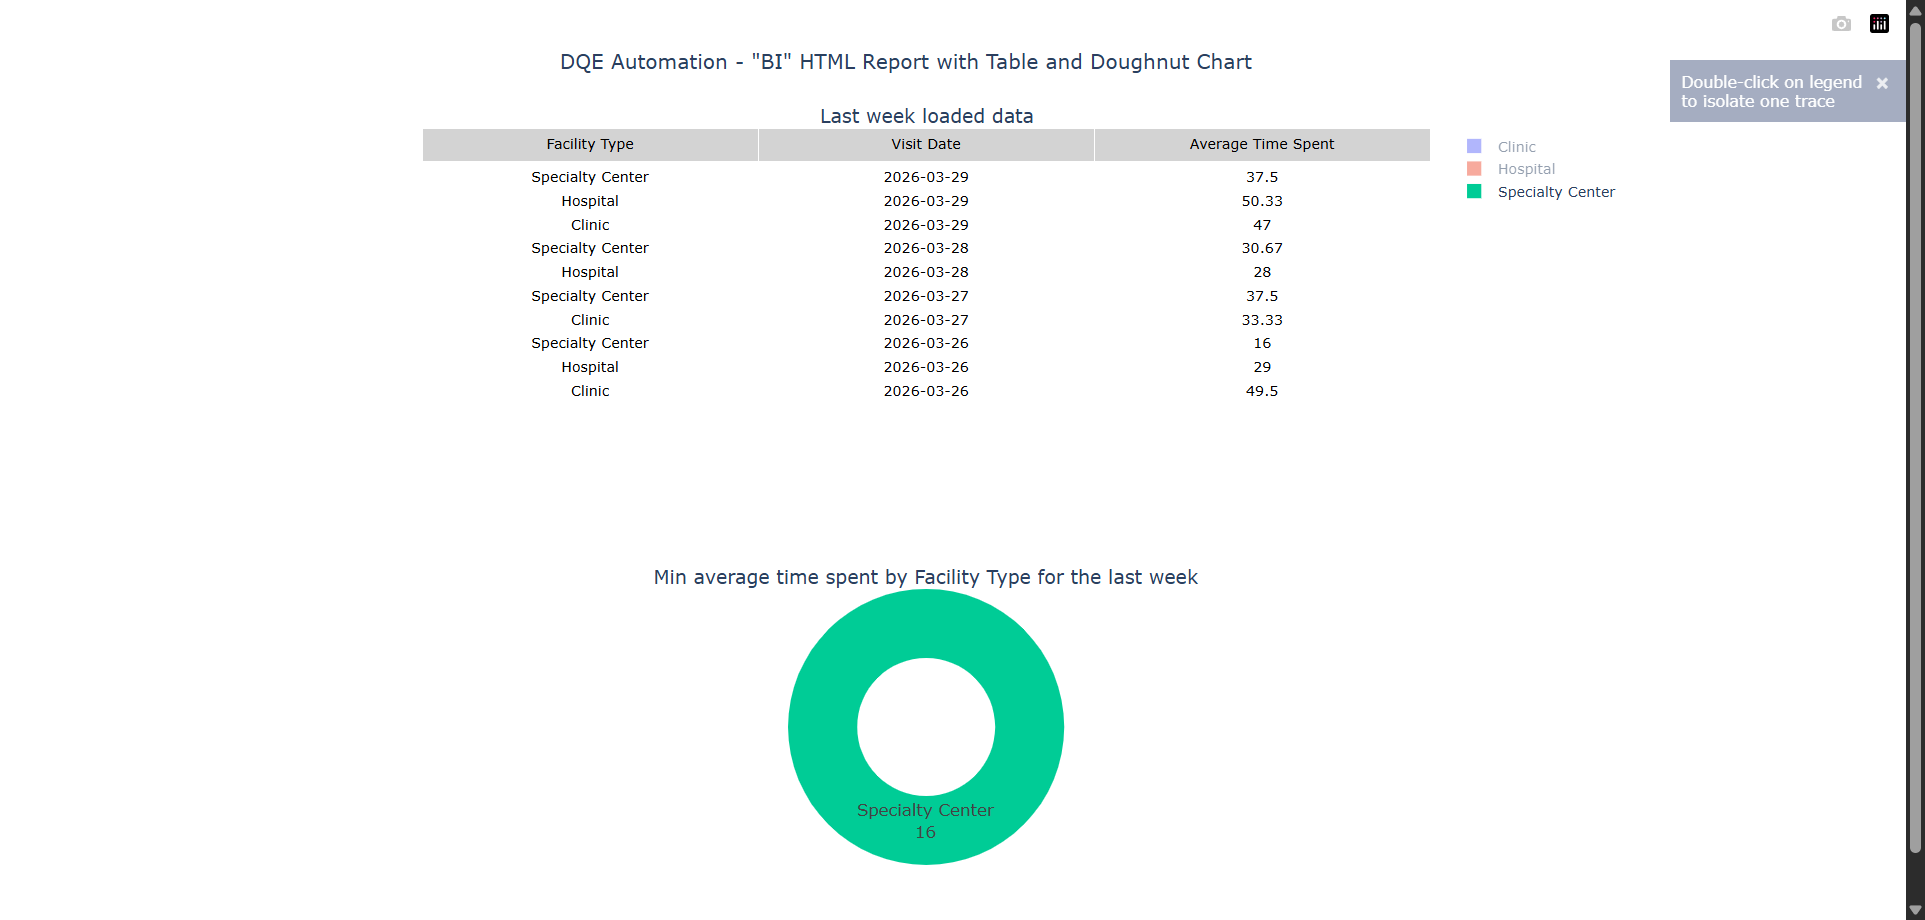
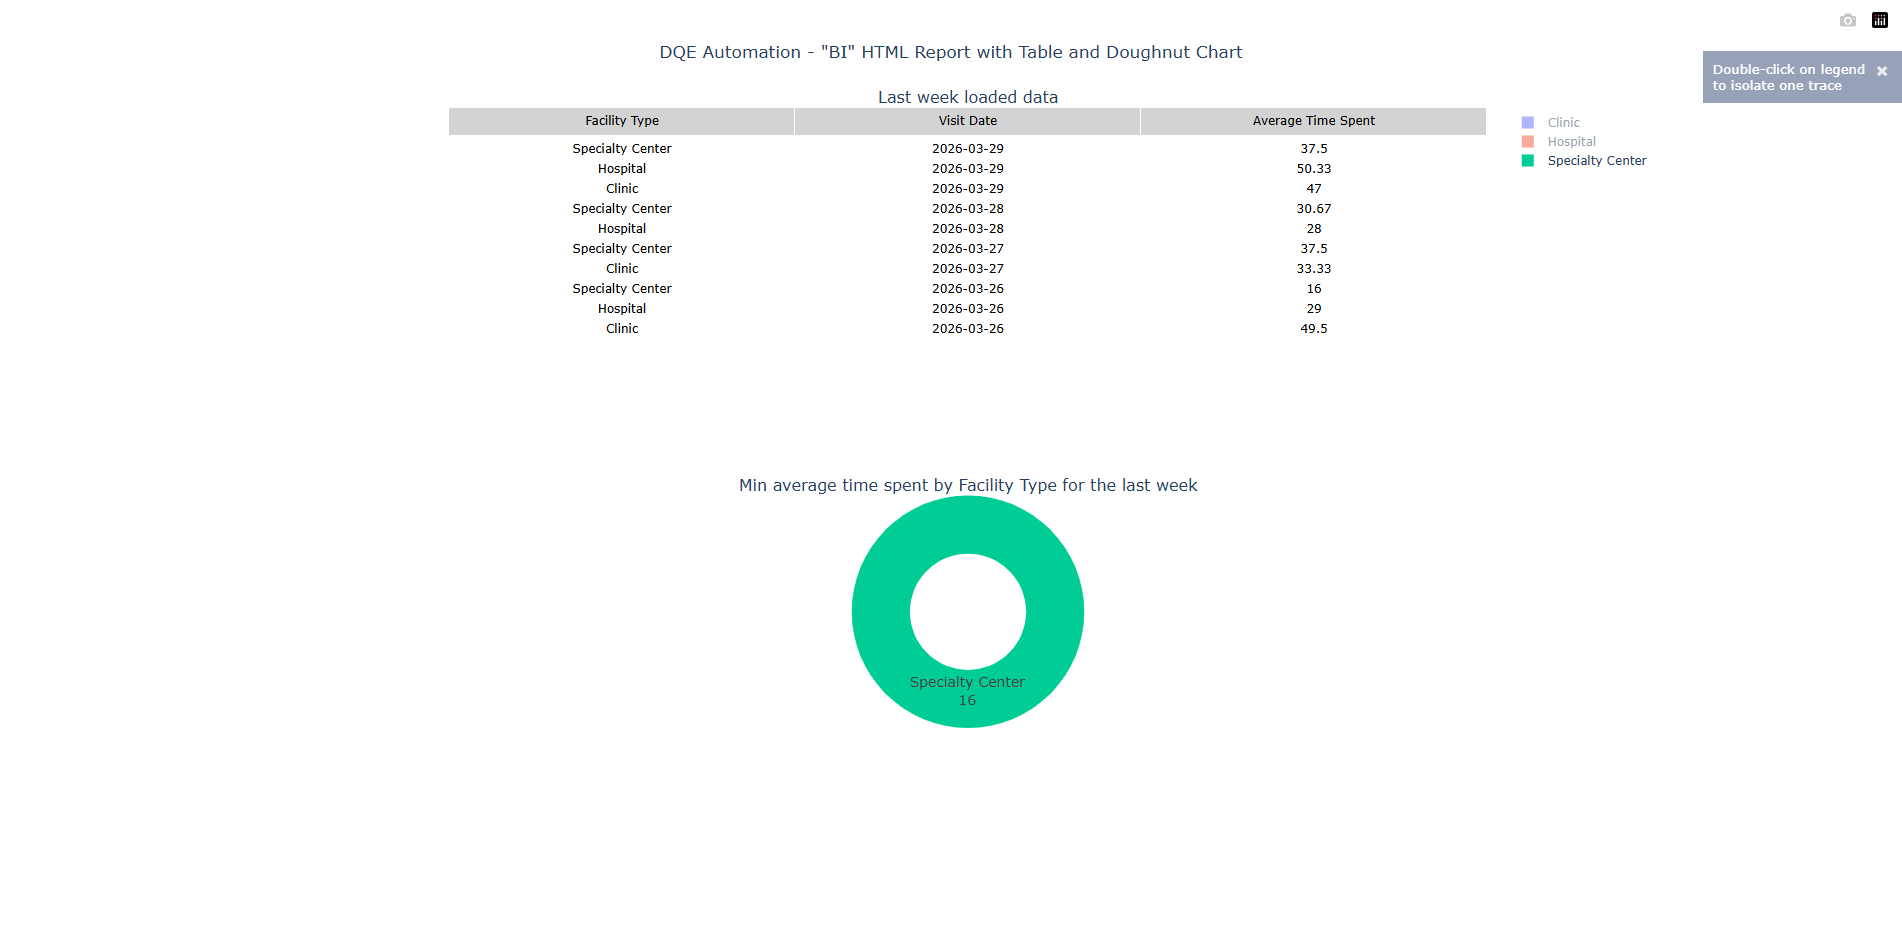
Final optimized Selenium automation - headless mode with cleaned code

diff --git a/Selenium Introduction/main.py b/Selenium Introduction/main.py
@@ -1,12 +1,12 @@
 import time
-import os
 import pandas as pd
 from selenium import webdriver
 from selenium.webdriver.chrome.webdriver import WebDriver
 from selenium.webdriver.common.by import By
+from selenium.webdriver.common.action_chains import ActionChains
 from selenium.webdriver.support.ui import WebDriverWait
 from selenium.webdriver.support import expected_conditions as EC
-from selenium.common.exceptions import TimeoutException, NoSuchElementException
+from selenium.common.exceptions import TimeoutException
 from pathlib import Path
 
 
@@ -21,14 +21,11 @@ class SeleniumWebDriverContextManager:
         if self.headless:
             options.add_argument('--headless')
         
-        # Start with large initial size
-        options.add_argument('--window-size=1920,4000')
+        options.add_argument('--window-size=1920,1080')
         options.add_argument('--disable-blink-features=AutomationControlled')
         
         self.driver = webdriver.Chrome(options=options)
-        
-        # Set window size to 4000px height
-        self.driver.set_window_size(1920, 4000)
+        self.driver.set_window_size(1920, 1080)
         
         return self.driver
     
@@ -36,7 +33,6 @@ class SeleniumWebDriverContextManager:
         """Clean up WebDriver"""
         if self.driver:
             self.driver.quit()
-        
         return False
 
 
@@ -58,48 +54,29 @@ def extract_table_to_csv(driver: WebDriver, output_file="table.csv"):
         header_elements = table_container.find_elements(By.CSS_SELECTOR, "g#header text.cell-text")
         headers = [h.text.strip() for h in header_elements if h.text.strip()]
         
-        print(f"   Found headers: {headers}")
-        
-        # Locator 3: Find ALL text elements with class 'cell-text'
+        # Locator 3: By CSS_SELECTOR - get all data cells
         all_texts = table_container.find_elements(By.CSS_SELECTOR, "text.cell-text")
         
-        # Extract text, skipping headers
-        all_data = []
-        for text_elem in all_texts:
-            text = text_elem.text.strip()
-            if text and text not in headers:
-                all_data.append(text)
+        # Extract data, skipping headers
+        all_data = [text.text.strip() for text in all_texts 
+                    if text.text.strip() and text.text.strip() not in headers]
         
-        print(f"   Total cell-text elements found: {len(all_texts)}")
-        print(f"   Data cells (excluding headers): {len(all_data)}")
-        
-        # Organize into rows (3 columns)
+        # Organize into rows
         num_columns = len(headers)
-        rows = []
-        
-        if num_columns > 0:
-            for i in range(0, len(all_data), num_columns):
-                row = all_data[i:i + num_columns]
-                if len(row) == num_columns:
-                    rows.append(row)
-        
-        print(f"   Organized into {len(rows)} rows")
+        rows = [all_data[i:i + num_columns] for i in range(0, len(all_data), num_columns)
+                if len(all_data[i:i + num_columns]) == num_columns]
         
         if headers and rows:
             df = pd.DataFrame(rows, columns=headers)
             df.to_csv(output_file, index=False)
             print(f"✅ Table saved: {len(df)} rows, {len(headers)} columns")
         else:
-            print(f"⚠ Could not create table (headers: {len(headers)}, rows: {len(rows)})")
-            # Create empty file so deliverable exists
-            pd.DataFrame(columns=headers if headers else ["Column1", "Column2", "Column3"]).to_csv(output_file, index=False)
+            pd.DataFrame(columns=headers).to_csv(output_file, index=False)
             
     except TimeoutException:
         print("❌ Timeout: Table not found")
     except Exception as e:
         print(f"❌ Error extracting table: {e}")
-        import traceback
-        traceback.print_exc()
 
 
 def extract_doughnut_data(driver: WebDriver, output_file):
@@ -107,33 +84,28 @@ def extract_doughnut_data(driver: WebDriver, output_file):
     Extract doughnut chart data from Plotly pie chart
     """
     try:
-        # Find all pie slices
         slices = driver.find_elements(By.CSS_SELECTOR, "g.slice")
         
         data = []
         for slice_elem in slices:
             try:
-                # Extract text from each slice
                 text_elem = slice_elem.find_element(By.CSS_SELECTOR, "text.slicetext")
                 text_content = text_elem.get_attribute("data-unformatted")
                 
                 if text_content:
-                    # Parse "Clinic<br>33.33" format
                     parts = text_content.replace("<br>", "|").split("|")
                     if len(parts) >= 2:
-                        facility_type = parts[0].strip()
-                        value = parts[1].strip()
-                        data.append([facility_type, value])
-            except Exception as e:
+                        data.append([parts[0].strip(), parts[1].strip()])
+            except:
                 continue
         
+        df = pd.DataFrame(data, columns=["Facility Type", "Min Average Time Spent"]) if data else pd.DataFrame(columns=["Facility Type", "Min Average Time Spent"])
+        df.to_csv(output_file, index=False)
+        
         if data:
-            df = pd.DataFrame(data, columns=["Facility Type", "Min Average Time Spent"])
-            df.to_csv(output_file, index=False)
             print(f"✅ Chart data saved to {output_file} ({len(data)} entries)")
         else:
             print(f"⚠ No chart data found for {output_file}")
-            pd.DataFrame(columns=["Facility Type", "Min Average Time Spent"]).to_csv(output_file, index=False)
         
     except Exception as e:
         print(f"⚠ Error extracting chart data: {e}")
@@ -146,45 +118,25 @@ def process_doughnut_chart(driver: WebDriver):
     print("🍩 Processing doughnut chart...")
     
     try:
-        time.sleep(2)
-        
-        # Scroll to top with negative offset to show everything
-        driver.execute_script("window.scrollTo(0, 0);")
-        time.sleep(0.5)
-
-        # Zoom out slightly to fit everything
-        driver.execute_script("document.body.style.zoom='95%'")
-        time.sleep(0.5)
+        time.sleep(2)  # Wait for chart to render
         
         # Screenshot 0: Initial state
         driver.save_screenshot("screenshot0.png")
         extract_doughnut_data(driver, "doughnut0.csv")
         print("✅ screenshot0.png saved")
         
-        # Find legend groups (the parent containers)
+        # Find legend groups
         legend_groups = driver.find_elements(By.CSS_SELECTOR, "g.legend g.groups g.traces")
-        
         print(f"Found {len(legend_groups)} legend group(s)")
         
         screenshot_num = 1
         
+        # Click each legend item
         for i, group in enumerate(legend_groups):
             try:
-                # Scroll to top before each action
-                driver.execute_script("window.scrollTo(0, 0);")
-                time.sleep(0.3)
-                
-                # Move to element and click
-                from selenium.webdriver.common.action_chains import ActionChains
-                actions = ActionChains(driver)
-                actions.move_to_element(group).click().perform()
+                ActionChains(driver).move_to_element(group).click().perform()
                 time.sleep(1)
                 
-                # Scroll back to top before screenshot
-                driver.execute_script("window.scrollTo(0, 0);")
-                time.sleep(0.3)
-                
-                # Take screenshot
                 driver.save_screenshot(f"screenshot{screenshot_num}.png")
                 extract_doughnut_data(driver, f"doughnut{screenshot_num}.csv")
                 print(f"✅ screenshot{screenshot_num}.png saved")
@@ -196,33 +148,22 @@ def process_doughnut_chart(driver: WebDriver):
                 continue
         
         # Edge case: Toggle all back
-        try:
-            for group in legend_groups:
-                try:
-                    actions = ActionChains(driver)
-                    actions.move_to_element(group).click().perform()
-                    time.sleep(0.3)
-                except:
-                    pass
-            
-            # Scroll to top for final screenshot
-            driver.execute_script("window.scrollTo(0, 0);")
-            time.sleep(0.5)
-            
-            driver.save_screenshot(f"screenshot{screenshot_num}.png")
-            extract_doughnut_data(driver, f"doughnut{screenshot_num}.csv")
-            print(f"✅ screenshot{screenshot_num}.png (all filters toggled)")
-        except Exception as e:
-            print(f"⚠ Edge case handling: {e}")
+        for group in legend_groups:
+            try:
+                ActionChains(driver).move_to_element(group).click().perform()
+                time.sleep(0.3)
+            except:
+                pass
+        
+        driver.save_screenshot(f"screenshot{screenshot_num}.png")
+        extract_doughnut_data(driver, f"doughnut{screenshot_num}.csv")
+        print(f"✅ screenshot{screenshot_num}.png (all filters toggled)")
                 
     except Exception as e:
         print(f"❌ Error in doughnut chart processing: {e}")
-        import traceback
-        traceback.print_exc()
 
 
 if __name__ == "__main__":
-    # Get absolute path to report
     report_path = Path("report.html").absolute()
     
     if not report_path.exists():
@@ -230,27 +171,18 @@ if __name__ == "__main__":
         print("Please run: podman cp jenkins:/generated_report/report.html .")
         exit(1)
     
-    file_url = report_path.as_uri()
-    print(f"📄 Opening report: {file_url}\n")
+    print(f"📄 Opening report: {report_path.as_uri()}\n")
     
-    with SeleniumWebDriverContextManager() as driver:
-        # Load the HTML report
-        driver.get(file_url)
+    with SeleniumWebDriverContextManager(headless=True) as driver:
+        driver.get(report_path.as_uri())
         print("✅ Report loaded\n")
         
-        # Give page time to fully render Plotly charts
-        time.sleep(3)
+        time.sleep(3)  # Wait for Plotly charts to render
         
-        # Task 1: Extract table
         extract_table_to_csv(driver)
         print()
         
-        # Task 2: Process doughnut chart
         process_doughnut_chart(driver)
         print()
         
         print("🎉 Automation complete!")
-        
-        # Keep browser open for inspection
-        print("Browser will close in 10 seconds...")
-        time.sleep(10)
